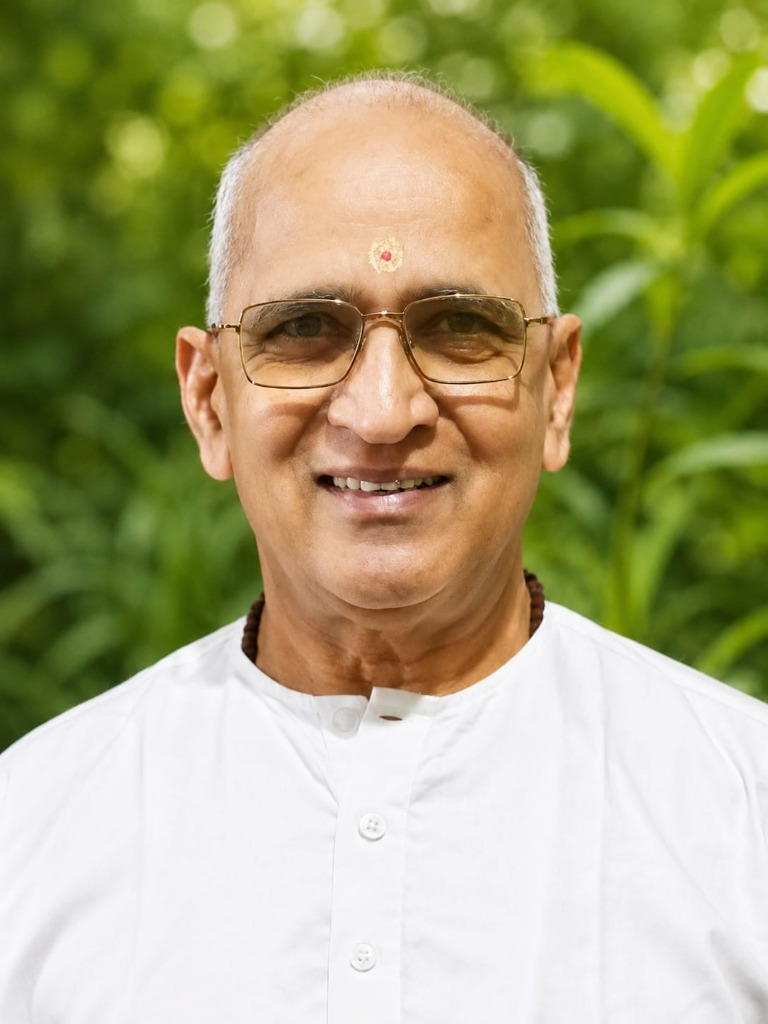
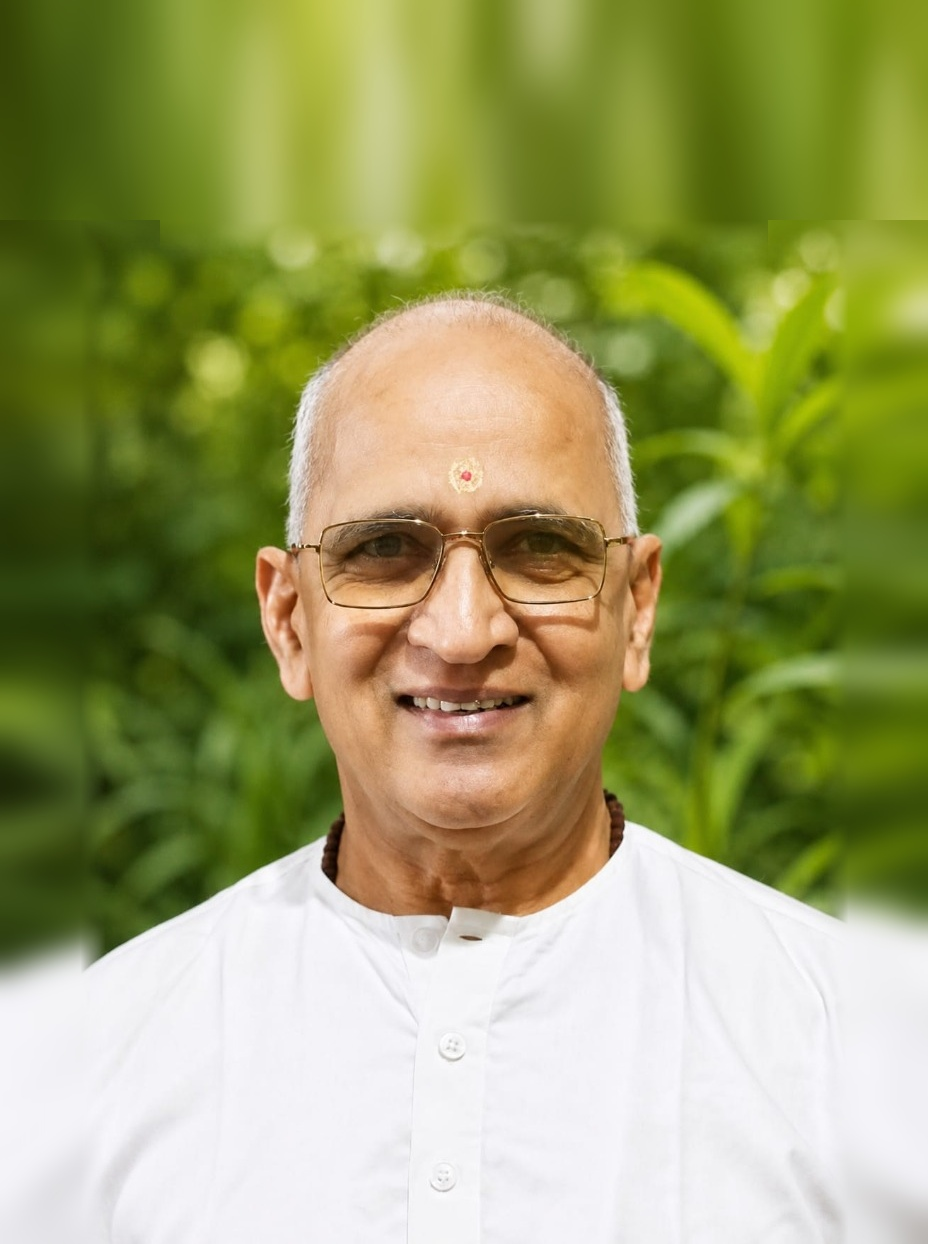
Zoom out Acharya Dr. M. Nagaraju portrait and add Smt. Priya Amaresh Director Yoga & Wellness card

diff --git a/src/pages/About.jsx b/src/pages/About.jsx
@@ -220,6 +220,7 @@ export default function About({ onNavigate }) {
     { name: 'Acharya Dr. M. Nagaraju', role: 'Chairperson', company: 'Suprada Wellness', category: 'leadership', quote: 'Pioneering traditional Vedic wisdom and holistic health systems.', color: 'var(--wine)', initials: 'AN' },
     { name: 'Mr. Sunil Jayaraj', role: 'Founder', company: 'Suprada Wellness', category: 'leadership', quote: 'Bringing athletic endurance and analytical systems to our retreat.', color: 'var(--wine)', initials: 'SJ' },
     { name: 'Dr. Prema Ramadas', role: 'Co-Founder', company: 'Suprada Wellness', category: ['leadership', 'clinical'], quote: 'Merging US clinical protocols with alternative Vedic therapies.', color: 'var(--wine)', initials: 'PR' },
+    { name: 'Smt. Priya Amaresh', role: 'Director, Yoga & Wellness', company: 'Suprada Wellness', category: ['leadership', 'mindfulness'], quote: 'Guiding classical yoga practices, pranayama, and holistic lifestyle integration.', color: 'var(--wine)', initials: 'PA' },
     { name: 'Srinivas Ramadas', role: 'Director Operations', company: 'Suprada Wellness', category: 'leadership', quote: 'Crafting the standard of luxury wellness operations.', color: 'var(--redwood)', initials: 'SR' },
     { name: 'Dr. Vinaya, B.N.Y.S', role: 'Chief Medical Officer', company: 'Suprada Holistic Wellness', category: ['clinical', 'mindfulness'], quote: 'Pioneering natural healing and drugless integrative medical protocols.', color: 'var(--sage)', initials: 'V' }
   ];

diff --git a/src/pages/Home.jsx b/src/pages/Home.jsx
@@ -2743,12 +2743,13 @@ export default function Home({ onNavigate }) {
             </h2>
           </div>
 
-          <div className="experts-carousel-mobile" style={{ display: 'grid', gridTemplateColumns: 'repeat(6, 1fr)', gap: '0.9rem', width: '100%' }}>
+          <div className="experts-carousel-mobile" style={{ display: 'grid', gridTemplateColumns: 'repeat(7, 1fr)', gap: '0.9rem', width: '100%' }}>
             {[
               { name: 'Late Mrs. Renuka Nagaraju', role: 'Founder Inspiration', creds: 'Suprada Wellness', img: '/assets/Founders/nagaraju_lady.jpg' },
               { name: 'Acharya Dr. M. Nagaraju', role: 'Chairperson', creds: 'Suprada Wellness', img: '/assets/Founders/nagaraju_man.jpg' },
               { name: 'Mr. Sunil Jayaraj', role: 'Founder', creds: 'Suprada Wellness', img: '/assets/Founders/sunil_jayaraj.jpg' },
               { name: 'Dr. Prema Ramadas', role: 'Co-founder', creds: 'Suprada Wellness', img: '/assets/Founders/prema_ramadas.jpg' },
+              { name: 'Smt. Priya Amaresh', role: 'Director, Yoga & Wellness', creds: 'Suprada Wellness', img: '/assets/Founders/priya_amaresh.jpg' },
               { name: 'Srinivas Ramadas', role: 'Director Operations', creds: 'Suprada Wellness', img: '/assets/Founders/srinivas_ramadas.jpg' },
               { name: 'Dr. Vinaya, B.N.Y.S', role: 'Chief Medical Officer', creds: 'Suprada Wellness', img: '/assets/Founders/vinaya.jpg' }
             ].map((doc, idx) => (
